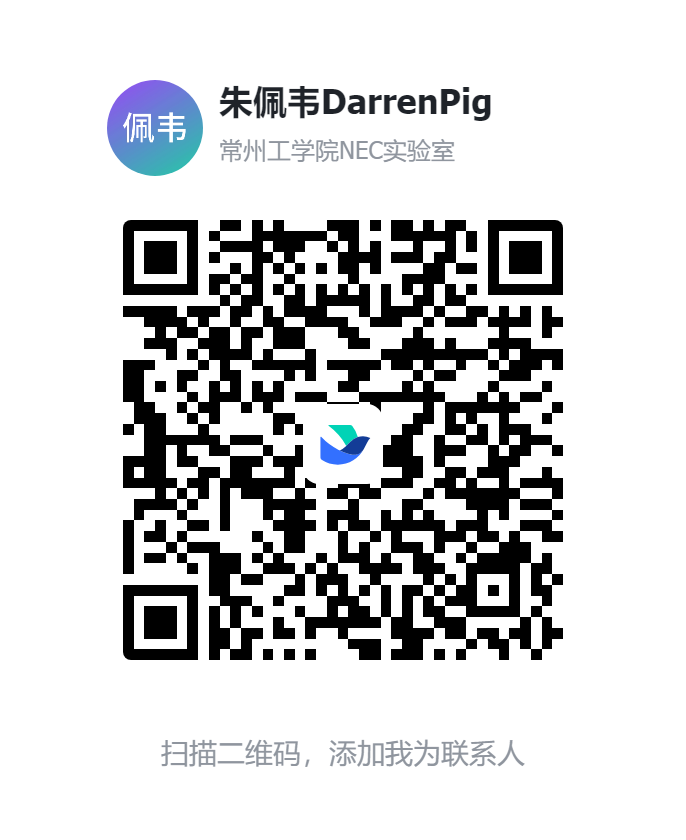
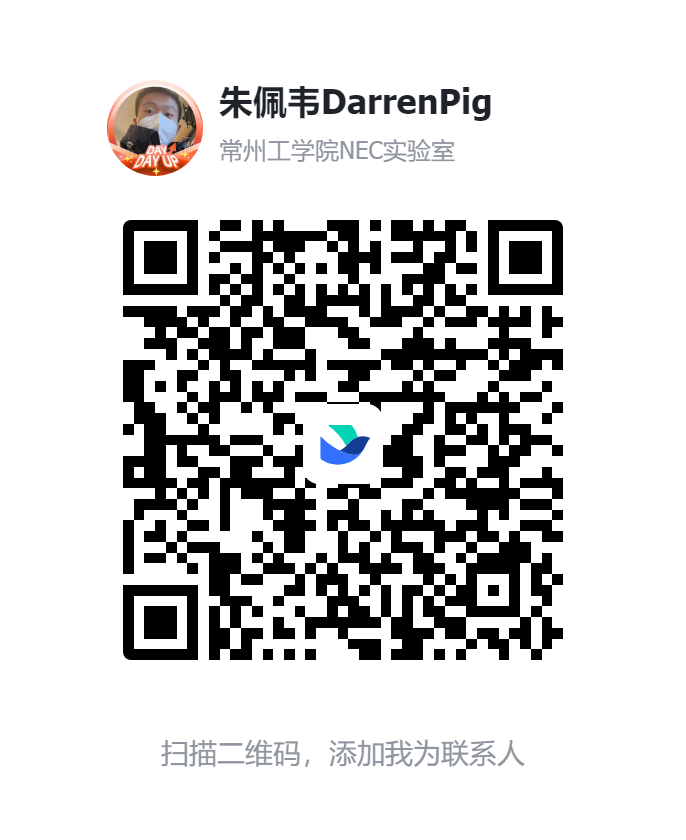
feat: update FeiShu QR code; add new image under Connect with Me

Changed region(s): [[0.1531, 0.0929, 0.3061, 0.2167]]

diff --git a/index.html b/index.html
@@ -829,6 +829,11 @@
         <!-- AdventureX二维码 -->
         <img src="files/AdventureX.jpg" alt="AdventureX QR Code" style="height: 200px; width: auto;" />
     </div>
+    
+    <!-- 新增图片 -->
+    <div style="text-align: center; margin: 15px 0;">
+        <img src="files/connect-extra.jpg" alt="Connect Extra" style="max-width: 100%; height: auto; border-radius: 15px;">
+    </div>
 </div>
 
 
